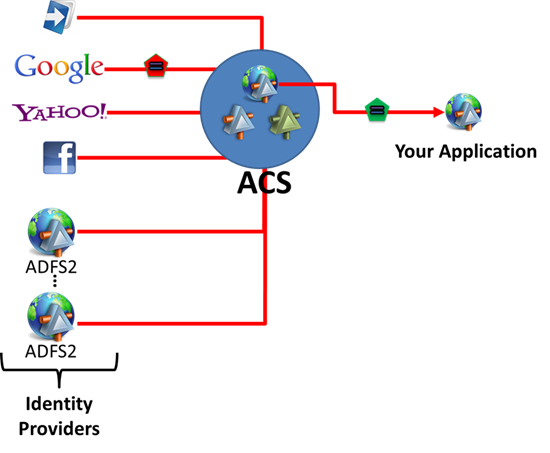
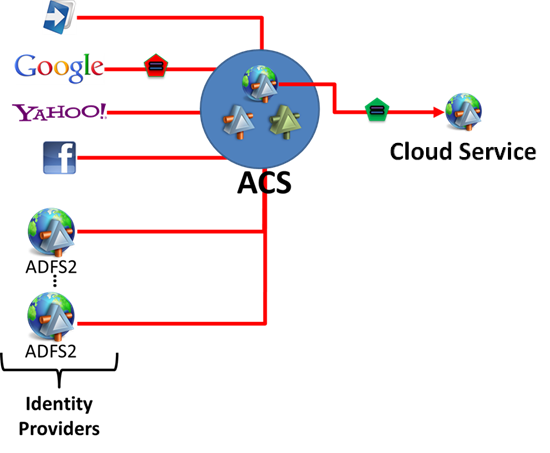
- Minor updates.

Changed region(s): [[0.7109, 0.3091, 0.9891, 0.3709]]

diff --git a/HOL.md b/HOL.md
@@ -6,19 +6,19 @@
 <a name="Overview"></a>
 ## Overview ##
 
-Connecting one application to its users is one of the most basic requirements of any solution, whether deployed on-premises, in the cloud or on both.
+Connecting a cloud service to its users is one of the most basic requirements of any solution, whether deployed on-premises, in the cloud or on both.
 
-The emergence of standards is helping to break the silos which traditionally isolate accounts stored by different web sites and business entities, however offering application access to users coming from multiple sources can still be a daunting task. As of today, if you want to open your application to users coming from Facebook, Live ID, Google and business directories the brute-force approach demands you to lean and implement four different authentication protocols. Changes in today's world happen fast and often, forcing you to keep updating your protocol implementations to chase the latest evolutions of the authentication mechanisms of the user repositories. All this can require a disproportionate amount of energy, leaving you with fewer resources to focus on your business.
+The emergence of standards is helping to break the silos which traditionally isolate accounts stored by different web sites and business entities, however offering cloud service access to users coming from multiple sources can still be a daunting task. As of today, if you want to open your cloud service to users coming from Facebook, Live ID, Google and business directories the brute-force approach demands you to lean and implement four different authentication protocols. Changes in today's world happen fast and often, forcing you to keep updating your protocol implementations to chase the latest evolutions of the authentication mechanisms of the user repositories. All this can require a disproportionate amount of energy, leaving you with fewer resources to focus on your business.
 
  ![A functional view of the Access Control Service](./images/A-functional-view-of-the-Access-Control-Service.png?raw=true "A functional view of the Access Control Service")
 
 _A functional view of the Access Control Service_
 
-Enter the Windows Azure Access Control Service (ACS). ACS offers you a way to outsource authentication and decouple your application from all the complexity of maintaining a direct relationship with all the identity providers you want to tap from. ACS takes care of engaging every identity provider with its own authentication protocol, normalizing the authentication results in a protocol supported by the .NET framework tooling (namely the Windows Identity Foundation technology, or WIF) regardless of from where the user is coming from. WIF allows you in just few clicks to elect the ACS as the authentication manager for your application; from that moment on ACS takes care of everything, including providing a UI for the user to choose among all the recognized identity providers.
+Enter the Windows Azure Access Control Service (ACS). ACS offers you a way to outsource authentication and decouple your cloud service from all the complexity of maintaining a direct relationship with all the identity providers you want to tap from. ACS takes care of engaging every identity provider with its own authentication protocol, normalizing the authentication results in a protocol supported by the .NET framework tooling (namely the Windows Identity Foundation technology, or WIF) regardless of from where the user is coming from. WIF allows you in just few clicks to elect the ACS as the authentication manager for your cloud service; from that moment on ACS takes care of everything, including providing a UI for the user to choose among all the recognized identity providers.
 
 Furthermore, ACS offers you greater control over which user attributes should be assigned for every authentication event; again in synergy with WIF, those attributes (called claims) can be easily accessed for taking authorization decisions without forcing the developer do understand or even be aware of the lower level mechanisms that the authentication protocols entail.
 
-In this intermediate hands-on lab you will learn how to use the Access Control Service for managing trust relationships with multiple business identity providers. Users from two different organizations will be able to gain authenticated access to your application; however you will not be required to write any special code for handling the differences between the two. You will learn how to use ACS for establishing relationships and normalizing attributes without having to touch your application's source code. The lab will demonstrate how to configure ACS both via the Windows Azure Portal and the management API.
+In this intermediate hands-on lab you will learn how to use the Access Control Service for managing trust relationships with multiple business identity providers. Users from two different organizations will be able to gain authenticated access to your cloud service; however you will not be required to write any special code for handling the differences between the two. You will learn how to use ACS for establishing relationships and normalizing attributes without having to touch your cloud service's source code. The lab will demonstrate how to configure ACS both via the Windows Azure Portal and the management API.
 
 <a name="Objectives"></a>
 ### Objectives ###
@@ -31,7 +31,7 @@ In this Hands-On Lab, you will learn how to:
 
 - Do all of the above via management API
 
-- Outsource authentication of a web application to ACS
+- Outsource authentication of a cloud service to ACS
 
 - Use ACS to handle the home realm discovery problem
 
@@ -251,16 +251,16 @@ In a real-life solution, the business identity providers would expose their auth
  
 	_"Debugger Not Enabled" Alert_
 
-	![Running the Application](./images/Running-the-Application.png?raw=true "Running the Application")
+	![Running the Service](./images/Running-the-Application.png?raw=true "Running the Service")
  
-	_Running the Application_
+	_Running the Service_
 
 1. Close the browser.
 
 <a name="Ex1Task2"></a>
-#### Task 2 - Configure one entry for the application in the Access Control Service with the Windows Azure Portal ####
+#### Task 2 - Configure one entry for the cloud service in the Access Control Service with the Windows Azure Portal ####
 
-Before being able to use ACS for offloading authentication, you need to let ACS know about your application. You can easily do this by working on your Windows Azure namespace via management portal.
+Before being able to use ACS for offloading authentication, you need to let ACS know about your cloud service. You can easily do this by working on your Windows Azure namespace via management portal.
 
 1. Navigate to [https://manage.windowsazure.com/](https://manage.windowsazure.com/). You will be prompted for your Microsoft account credentials if you are not already signed in. 
 
@@ -286,9 +286,9 @@ Before being able to use ACS for offloading authentication, you need to let ACS 
  
 	_Access Control Service Management Portal_
 
-	> **Note:** The Management Portal offers you a global view of all the settings you can change in ACS. In this task we want to add a new application: in identity jargon, you use the expression "Relying Party" for referring to an application.
+	> **Note:** The Management Portal offers you a global view of all the settings you can change in ACS. In this task we want to add a new cloud service: in identity jargon, you use the expression "Relying Party" for referring to an cloud service.
 
-1. Click the **Relying Party Applications** link on the navigation menu in order to register your Web site with ACS. "Relying Party" is identity speak for application, the entity which consumes identities, whereas as you already guessed "Identity Provider" indicates one entity which stores identities and is capable of authenticating users.
+1. Click the **Relying Party Applications** link on the navigation menu in order to register your Web site with ACS. "Relying Party" is identity speak for cloud service, the entity which consumes identities, whereas as you already guessed "Identity Provider" indicates one entity which stores identities and is capable of authenticating users.
 
 	![Identity Providers configured](./images/Identity-Providers-configured.png?raw=true "Identity Providers configured")
 
@@ -310,7 +310,7 @@ Before being able to use ACS for offloading authentication, you need to let ACS 
 	-**Token signing:** Use service namespace certificate (standard)
 
 
-	> **Note:** Those values describe everything ACS needs to know for handling authentication for your application. We'll get in more details later: here we will just say that upon successful authentication ACS sends back to the application a security token  (an artifact such as an XML fragment, a piece of binary or json code, anything as long as it is digitally signed) as proof that successful authentication actually took place. In order to do so, ACS needs to know the address of the application to which the token should be returned to, the desired characteristics of the token it has to create, and so on. 
+	> **Note:** Those values describe everything ACS needs to know for handling authentication for your cloud service. We'll get in more details later: here we will just say that upon successful authentication ACS sends back to the cloud service a security token  (an artifact such as an XML fragment, a piece of binary or json code, anything as long as it is digitally signed) as proof that successful authentication actually took place. In order to do so, ACS needs to know the address of the cloud service to which the token should be returned to, the desired characteristics of the token it has to create, and so on. 
 
 
 	In this lab we will give you the instructions for getting the scenario up and running, but we will not go in great details about the underlying security mechanisms and protocols. If you want to know more about what happens behind the scenes, please refer to the presentations and videos section of the training kit.
@@ -323,7 +323,7 @@ Before being able to use ACS for offloading authentication, you need to let ACS 
 
 1. Click **Save**.
 
-1. Under the **Development** section of the navigation menu, click the **Application Integration** link. Here there are various URIs that come in handy when configuring your application to take advantage of ACS.
+1. Under the **Development** section of the navigation menu, click the **Application Integration** link. Here there are various URIs that come in handy when configuring your cloud service to take advantage of ACS.
 
 1. Go to **Endpoint Reference** section and copy the value for **WS-Federation Metadata**. You will discover what that is and what it is used for right at the beginning of the next step.
 
@@ -334,9 +334,9 @@ Before being able to use ACS for offloading authentication, you need to let ACS 
 <a name="Ex1Task3"></a>
 #### Task 3 - Configuring a Website to Accept Tokens from Access Control Service ####
 
-For a web application, outsourcing authentication ACS means forwarding every request from unauthenticated users to ACS. ACS will do something for making authentication happen (details below), and as we have seen above the result will be a security token. All those redirects are usually done according to specific protocols, which are platform and vendor-independent.
+For a cloud service, outsourcing authentication ACS means forwarding every request from unauthenticated users to ACS. ACS will do something for making authentication happen (details below), and as we have seen above the result will be a security token. All those redirects are usually done according to specific protocols, which are platform and vendor-independent.
 
-ACS can emit different token types on various protocols. For Web sites, the default protocol is WS-Federation. There's no need to go in the fine details: suffice to say that WS-Federation is a protocol that is natively understood by Windows Identity Foundation (WIF), an extension to the .NET framework that allows you to easily outsource application authentication to tokens sources such as the ACS itself. In particular, WIF extends Visual Studio with a wizard which can automatically configure your application to outsource authentication without requiring you to write a single line of code. All it needs is the address of a machine-readable description of the token source to be used: in our case, that description is the WS-Federation Metadata address you saved at the end of Task 3. In identity parlance, a service which emits security token is called a Security Token Service (STS).
+ACS can emit different token types on various protocols. For Web sites, the default protocol is WS-Federation. There's no need to go in the fine details: suffice to say that WS-Federation is a protocol that is natively understood by Windows Identity Foundation (WIF), an extension to the .NET framework that allows you to easily outsource cloud service authentication to tokens sources such as the ACS itself. In particular, WIF extends Visual Studio with a wizard which can automatically configure your cloud service to outsource authentication without requiring you to write a single line of code. All it needs is the address of a machine-readable description of the token source to be used: in our case, that description is the WS-Federation Metadata address you saved at the end of Task 3. In identity parlance, a service which emits security token is called a Security Token Service (STS).
 
 In this task you will use the WIF wizard to outsource authentication to ACS.
 
@@ -374,22 +374,22 @@ In this task you will use the WIF wizard to outsource authentication to ACS.
  
 		_Offered Claims_
 
-		> **Note:** The WS-Federation Metadata can contain descriptions of the claims that the endpoint offers. The wizard shows those to you so that you will know what information about incoming users you will be able to process in your application. In this case ACS declares that it can release information about which identity provider was actually used for authentication and a user identifier.
+		> **Note:** The WS-Federation Metadata can contain descriptions of the claims that the endpoint offers. The wizard shows those to you so that you will know what information about incoming users you will be able to process in your cloud service. In this case ACS declares that it can release information about which identity provider was actually used for authentication and a user identifier.
 
 	1. On the **Summary** page review the changes that will be made and click **Finish**.
 
 <a name="Ex1Task4"></a>
 #### Task 4 - Use the ACS Management Portal to Trust a Business Identity Provider and Process User Attributes via Claims Mapping Rules ####
 
-![ACS does not directly authenticate users, but it brokers authentication between your application and ](./images/ACS-does-not-directly-authenticate-users,-but-it-brokers-authentication-between-your-application-and-.png?raw=true "ACS does not directly authenticate users, but it brokers authentication between your application and ")
+![ACS does not directly authenticate users, but it brokers authentication between your cloud service and ](./images/ACS-does-not-directly-authenticate-users,-but-it-brokers-authentication-between-your-application-and-.png?raw=true "ACS does not directly authenticate users, but it brokers authentication between your cloud service and ")
  
-_ACS does not directly authenticate users, but it brokers authentication between your application and multiple providers. The picture shows a simplified authentication flow, which will be described in the following tasks_
+_ACS does not directly authenticate users, but it brokers authentication between your cloud service and multiple providers. The picture shows a simplified authentication flow, which will be described in the following tasks_
 
-ACS does not directly authenticate users: in the most common cases it does not maintain credentials such as username and password, but it rather brokers authentication between your application and other providers. Let's say that you are developing an inventory application for your warehouse, and two partner companies need to have access to it in order to sell your goods. You want the employees of those two partners to have authenticated access to your application, but you don't want to manage their identities. Here's where ACS comes to the rescue: assuming that those companies expose their own STSs as well, ACS will simply take care to redirect unauthenticated requests to one or the other, process the resulting token and send back a new authentication token to your application. That way, users never have to disclose their credentials outside of their own infrastructure and you never have to manage credentials you don't own. Organizations which expose via STS their capability of authenticating users are called Identity Providers (IP for short).
+ACS does not directly authenticate users: in the most common cases it does not maintain credentials such as username and password, but it rather brokers authentication between your cloud service and other providers. Let's say that you are developing an inventory cloud service for your warehouse, and two partner companies need to have access to it in order to sell your goods. You want the employees of those two partners to have authenticated access to your cloud service, but you don't want to manage their identities. Here's where ACS comes to the rescue: assuming that those companies expose their own STSs as well, ACS will simply take care to redirect unauthenticated requests to one or the other, process the resulting token and send back a new authentication token to your cloud service. That way, users never have to disclose their credentials outside of their own infrastructure and you never have to manage credentials you don't own. Organizations which expose via STS their capability of authenticating users are called Identity Providers (IP for short).
 
 In this task you will use the portal for configuring ACS to accept users from the first of two identity providers.
 
-1. Back to the browser, click the **Identity Providers** link in the **Trust Relationships** section of the menu. The main area of the management portal will display a page which helps you to manage the identity providers from where your application users will come from.
+1. Back to the browser, click the **Identity Providers** link in the **Trust Relationships** section of the menu. The main area of the management portal will display a page which helps you to manage the identity providers from where your cloud service users will come from.
 
 	![Identity Providers](./images/Identity-Providers.png?raw=true "Identity Providers")
 
@@ -403,9 +403,9 @@ In this task you will use the portal for configuring ACS to accept users from th
 
 	> **Note:** ACS is able to broker authentication with many different types of identity providers. Web IPs such as Windows Live ID, Google, Yahoo and Facebook are all services available on the public internet, defined by the address of their STS (or equivalent), the set of attributes (claims) they share about their users and the authentication protocol they use.
 
-	> Business IPs, conversely, behaves in a slightly different way. Every company will have its own STS address, will share different claims about their users, and so on. In ACS you can add multiple business IPs: one of the advantages of ACS is exactly that it can help you to manage many trust relationship without burdening your application code.
+	> Business IPs, conversely, behaves in a slightly different way. Every company will have its own STS address, will share different claims about their users, and so on. In ACS you can add multiple business IPs: one of the advantages of ACS is exactly that it can help you to manage many trust relationship without burdening your cloud service code.
 
-	> As of today, the protocol that ACS uses for handing business IPs for web applications is WS-Federation. On the Windows platform the standard way of exposing an STS is using Active Directory Federation Services 2.0, which is why the "Add" button for adding a business IP is labeled as in Figure 22. However any WS-Federation STS should work, even from non-Windows platform (WS-Federation is an open, vendor-independent standard).
+	> As of today, the protocol that ACS uses for handing business IPs for cloud services is WS-Federation. On the Windows platform the standard way of exposing an STS is using Active Directory Federation Services 2.0, which is why the "Add" button for adding a business IP is labeled as in Figure 22. However any WS-Federation STS should work, even from non-Windows platform (WS-Federation is an open, vendor-independent standard).
 
 1. Complete the form with the following information: 
 
@@ -431,19 +431,19 @@ In this task you will use the portal for configuring ACS to accept users from th
  
 	_Filling information about the first business IP in the ACS portal_
 
-	> **Note:** The form you just filled is the functional equivalent of the wizard you ran on your application back on task 3, this time applied to ACS. The wizard configured the application to redirect unauthenticated requests to the ACS and accept the resulting tokens as proof of authentication; this form is configuring ACS to redirect unauthenticated requests to the first business IP and accept the tokens it emits as authentication proofs.
+	> **Note:** The form you just filled is the functional equivalent of the wizard you ran on your cloud service back on task 3, this time applied to ACS. The wizard configured the cloud service to redirect unauthenticated requests to the ACS and accept the resulting tokens as proof of authentication; this form is configuring ACS to redirect unauthenticated requests to the first business IP and accept the tokens it emits as authentication proofs.
 
 	> Below you will learn more details about the STS we are using for simulating business IPs in this lab.
 
 1. Click **Save**.
 
-1. In the **Trust Relationships** section of the navigation menu, click the **Rule Groups** link in order to select the default rule group for your application.
+1. In the **Trust Relationships** section of the navigation menu, click the **Rule Groups** link in order to select the default rule group for your cloud service.
 
 	![The current rule groups list contains just the default rule group ](./images/The-current-rule-groups-list-contains-just-the-default-rule-group-.png?raw=true "The current rule groups list contains just the default rule group ")
  
 	_The current rule groups list contains just the default rule group_
 
-	> **Note**: A very important aspect of security tokens is that they contain claims, attributes describing the authenticated user as asserted by the originating STS. The claims, which can be pretty much anything about the user (name, email, group memberships, privileges, spending limits and so on), provide key information which drive the authentication and authorization process.  ACS provides a rule engine which can process the claims received in the incoming token, and include the resulting transformed claims in the token sent back to the application. Often the claims in the output token will be simple pass-through of the values received from the IP, but in many cases ACS will perform important transformations such as assigning application-specific roles to the incoming user on the basis of, for example, their group memberships in their originating organization. In the steps below you will learn how to set up some simple transformation rules.
+	> **Note**: A very important aspect of security tokens is that they contain claims, attributes describing the authenticated user as asserted by the originating STS. The claims, which can be pretty much anything about the user (name, email, group memberships, privileges, spending limits and so on), provide key information which drive the authentication and authorization process.  ACS provides a rule engine which can process the claims received in the incoming token, and include the resulting transformed claims in the token sent back to the cloud service. Often the claims in the output token will be simple pass-through of the values received from the IP, but in many cases ACS will perform important transformations such as assigning cloud service-specific roles to the incoming user on the basis of, for example, their group memberships in their originating organization. In the steps below you will learn how to set up some simple transformation rules.
 
 1. Click **Default Rule Group for** **WebsiteAdvacedACS**.
 
@@ -508,7 +508,7 @@ In this task you will use the portal for configuring ACS to accept users from th
 	| **Output claim value** | **Enter Value** - Silver |
 	| **Description** | Map Silver Rule |
 
-	> **Note:** The first three rules you have added just pass though the name, group and email claims. Rule #3 and #4 map the group claim from SelfSTS1 the business IP to a role claim in ACS: Administrators and Users roles are map to Gold and Silver roles respectively. This is a great way of keeping your application code untainted from organization-specific considerations. Your application is just concerned about if the current user is silver or gold and enforces access rights accordingly. If the business aspects of the partnership changes, and from now on both Users and Administrator roles should now be awarded the Gold role, all you need to do is change rule 4: there is no need to touch the application code.
+	> **Note:** The first three rules you have added just pass though the name, group and email claims. Rule #3 and #4 map the group claim from SelfSTS1 the business IP to a role claim in ACS: Administrators and Users roles are map to Gold and Silver roles respectively. This is a great way of keeping your cloud service code untainted from organization-specific considerations. Your cloud service is just concerned about if the current user is silver or gold and enforces access rights accordingly. If the business aspects of the partnership changes, and from now on both Users and Administrator roles should now be awarded the Gold role, all you need to do is change rule 4: there is no need to touch the cloud service code.
 
 1. In the **Edit Rule Group** page, verify the rules you have just created and click **Save** .
 
@@ -552,17 +552,17 @@ In this task you will use the portal for configuring ACS to accept users from th
 
 1. Back to Visual Studio, press **F5** to run the Web site.	
 
-1. The relying party application _(https://localhost/WebSiteAdvancedACS/)_ will redirect to the **Access Control Service** to authenticate.
+1. The relying party cloud service _(https://localhost/WebSiteAdvancedACS/)_ will redirect to the **Access Control Service** to authenticate.
 
-1. Access Control sent to our application the claims it was expecting and we are now authenticated.
+1. Access Control sent to our cloud service the claims it was expecting and we are now authenticated.
 
 	![User Authenticated](./images/User-Authenticated.png?raw=true "User Authenticated")
  
 	_User Authenticated_
 
-	> **Note:** If you carefully observe the address bar in your browser as it opens the application, you can see the how the entire redirect sequence takes place: first the Web Site, then the STS, and back to the Web site. If you want to see the flow in more details, you can take advantage of utilities such as Fiddler or the Internet Explorer 9 traffic capture utility.
+	> **Note:** If you carefully observe the address bar in your browser as it opens the cloud service, you can see the how the entire redirect sequence takes place: first the Web Site, then the STS, and back to the Web site. If you want to see the flow in more details, you can take advantage of utilities such as Fiddler or the Internet Explorer 9 traffic capture utility.
 
-	> **Note:** In order to keep this hands-on lab simple, we didn't add any code to the Web site which would take advantage of the incoming claims (i.e. giving access to a certain page to gold users but not to others). WIF makes it very easy: if you are interested in learning how to leverage the incoming claims in your application access strategy, please refer to the WIF hands-on labs in this training kit.
+	> **Note:** In order to keep this hands-on lab simple, we didn't add any code to the Web site which would take advantage of the incoming claims (i.e. giving access to a certain page to gold users but not to others). WIF makes it very easy: if you are interested in learning how to leverage the incoming claims in your cloud service access strategy, please refer to the WIF hands-on labs in this training kit.
 
 1. Close the browser.
 
@@ -872,9 +872,9 @@ ruleGroupName + "'").FirstOrDefault();
 
 	> **Note:** Once again, it seems a lot of code but in fact it is roughly proportional to the data we are providing.
 
-	> If you observe the code above, you will notice that the claim types emitted by the second business identity provider are different: in this specific case, they are in Italian language. This is a typical case in which, without an intermediary such as ACS to decouple your application from the identity providers, you'd have to write specific code in order to accommodate the differences between how different partners manage and represent their users' information.
+	> If you observe the code above, you will notice that the claim types emitted by the second business identity provider are different: in this specific case, they are in Italian language. This is a typical case in which, without an intermediary such as ACS to decouple your cloud service from the identity providers, you'd have to write specific code in order to accommodate the differences between how different partners manage and represent their users' information.
 
-	> Using ACS allows you to write rules that will process the incoming claims, extract the information you need and create a normalized token which has consistent format regardless of the original data it was created from. Your application just needs to care about if the current user is gold or silver, and needn't worry about the difference between "Amministratori" and "Administrators".
+	> Using ACS allows you to write rules that will process the incoming claims, extract the information you need and create a normalized token which has consistent format regardless of the original data it was created from. Your cloud service just needs to care about if the current user is gold or silver, and needn't worry about the difference between "Amministratori" and "Administrators".
 
 1. Now add the following method, which uses the previously created methods to create an Identity Provider with corresponding rules.
 
@@ -959,7 +959,7 @@ CreateIdpManually(DateTime.UtcNow, DateTime.UtcNow.AddYears(1), svc,
 
 	> **Note:** When we had only one business IP configured in ACS, the authentication phase took place transparently if you exclude some changes in the address bar. Now we have two possible IPs to which we can redirect the user for authenticating, and at this point we have no clue which ACS could use to decide whether to redirect with one or the other.  The problem of taking this decision is known as the Home Realm Discovery problem, or HRD, and it arises almost every time there are multiple choices of identity providers. ACS offers various tools to address HDR. The one you can see in Figure 47 is the most direct, in which ACS automatically generates a page with as many buttons as there are configured IPs. Another approach consists of prompting the user for their email address, and using the domain part of it for establishing which IP is the user from (see Figure 24). The advantage of the second approach is that it does not reveal upfront the identity of the IP on the page.
 
-	> Both approaches can be mixed and matched, and ACS can even provide the HDR information programmatically so that you can build your own chrome for the HDR, for example if you want to maintain a consistent look & feel with the rest of your application.
+	> Both approaches can be mixed and matched, and ACS can even provide the HDR information programmatically so that you can build your own chrome for the HDR, for example if you want to maintain a consistent look & feel with the rest of your cloud service.
 
 1. Close the browser.
 
@@ -989,7 +989,7 @@ CreateIdpManually(DateTime.UtcNow, DateTime.UtcNow.AddYears(1), svc,
 	    <audienceUris>
 	````
 
-1. Press **F5** to start debugging the web application.
+1. Press **F5** to start debugging the cloud service.
 
 1. In the **Sign in** page, choose **SelfSTS1** Identity Provider in order to authenticate into the Website (you might need to click on the **Show more options** link).
 
@@ -1013,7 +1013,7 @@ CreateIdpManually(DateTime.UtcNow, DateTime.UtcNow.AddYears(1), svc,
 <a name="Ex1Summary"></a>
 #### Exercise 1: Summary ####
 
-In this exercise you took advantage of ACS for brokering authentication between a Web site and multiple business identity providers: that is a very common scenario, a problem you'd have to solve every time you want to open access for business partners to one application of yours, be it a level of business app or a Software as a Service (SaaS) solution. You had the chance to experience how the presence of ACS in the architecture can simplify the task of establishing trust relationships and keeping your application insulated from changes and differences in how the partners handle user information. ACS can be configured via management portal or via management API: in this hands-on lab you experienced with both approaches.
+In this exercise you took advantage of ACS for brokering authentication between a Web site and multiple business identity providers: that is a very common scenario, a problem you'd have to solve every time you want to open access for business partners to one cloud service of yours, be it a level of business app or a Software as a Service (SaaS) solution. You had the chance to experience how the presence of ACS in the architecture can simplify the task of establishing trust relationships and keeping your cloud service insulated from changes and differences in how the partners handle user information. ACS can be configured via management portal or via management API: in this hands-on lab you experienced with both approaches.
 
 ---
 
@@ -1028,10 +1028,10 @@ By completing this Hands-On Lab you have learned how to:
 
 - Do all of the above via management API
 
-- Outsource authentication of a web application to ACS
+- Outsource authentication of a cloud service to ACS
 
 - Use ACS to handle the home realm discovery problem
 
-The Windows Azure Access Control Service is a great service to outsource authentication to, as it can easily abstract away the complexity of dealing with multiple business identity providers such as directories enhanced by Active Directory Federation Services or equivalent and even web and social providers such as Windows Live Id, Facebook, Google and Yahoo. Furthermore, ACS offers powerful tools for manipulating the way in which the user's identity is processed before reaching your application.
+The Windows Azure Access Control Service is a great service to outsource authentication to, as it can easily abstract away the complexity of dealing with multiple business identity providers such as directories enhanced by Active Directory Federation Services or equivalent and even web and social providers such as Windows Live Id, Facebook, Google and Yahoo. Furthermore, ACS offers powerful tools for manipulating the way in which the user's identity is processed before reaching your cloud service.
 
-This intermediate lab gave you a glimpse of the capabilities of ACS applied to classic business access problems such has onboarding new partners, handling authentication from multiple sources and protecting applications from changes and edge cases. Here we focused on Web sites, but ACS can handle just as well SOAP and REST Web services. We focused on business identity providers, but ACS offers comprehensive support for Web identities via easy to use features which perfectly fit with the agility of Web-based solutions. If you are interested in knowing more about those capabilities, please refer to the introductory hands-on lab. Finally, if you are interested in REST solutions, look out for upcoming new labs exploring the OAuth2 features in ACS.
+This intermediate lab gave you a glimpse of the capabilities of ACS applied to classic business access problems such has onboarding new partners, handling authentication from multiple sources and protecting cloud services from changes and edge cases. Here we focused on Web sites, but ACS can handle just as well SOAP and REST Web services. We focused on business identity providers, but ACS offers comprehensive support for Web identities via easy to use features which perfectly fit with the agility of Web-based solutions. If you are interested in knowing more about those capabilities, please refer to the introductory hands-on lab. Finally, if you are interested in REST solutions, look out for upcoming new labs exploring the OAuth2 features in ACS.
